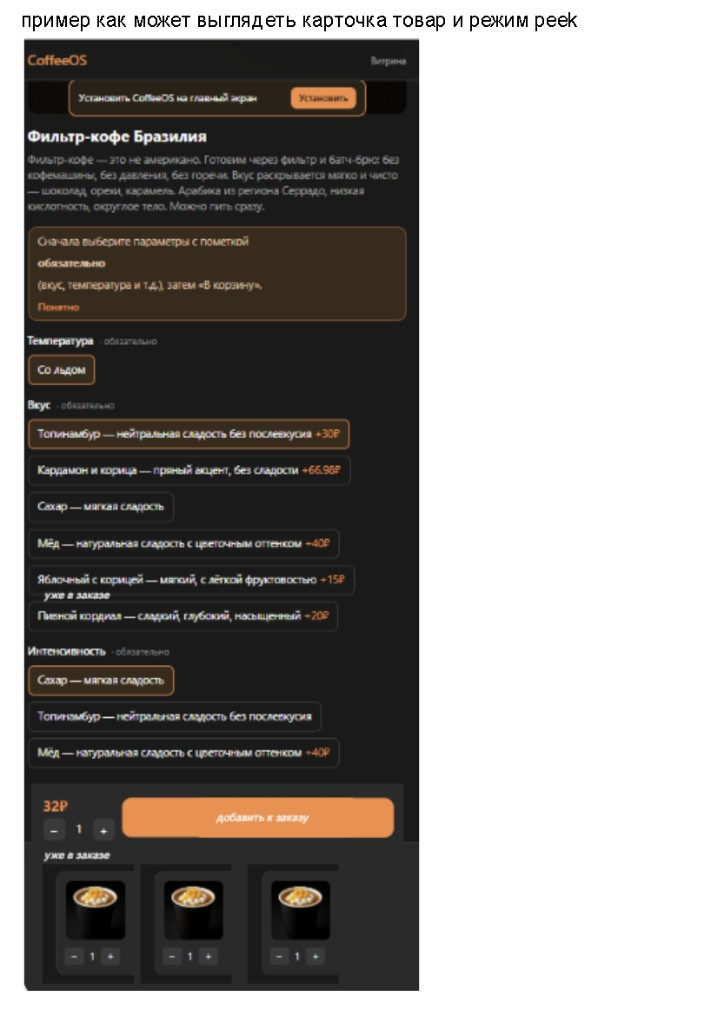
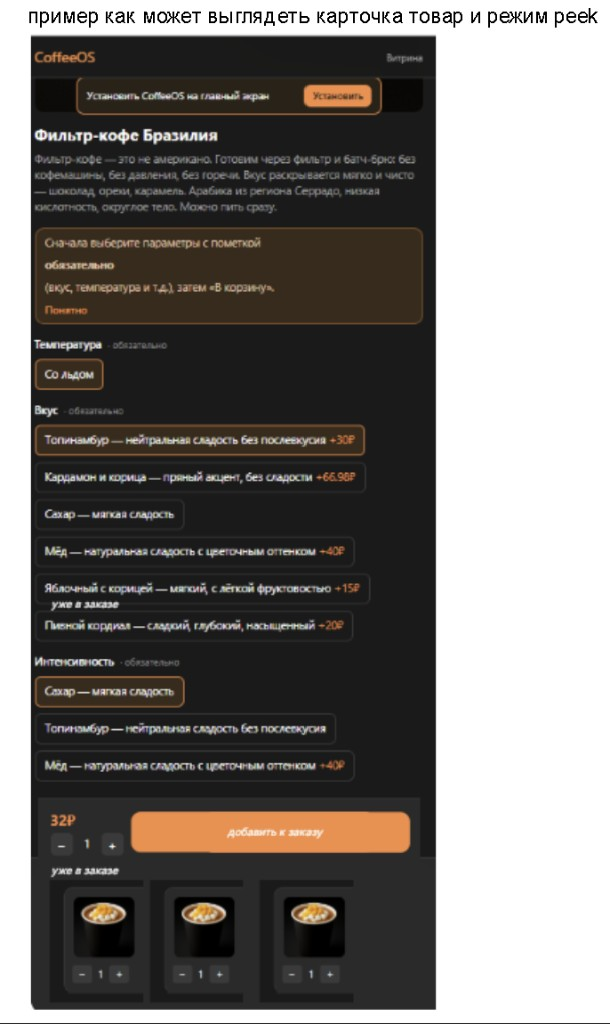
docs: intake #44 product card peek cart (reopen)
Reopen existing product_card_peek_cart TZ 1:1 with fresh screenshots;
CBR #44; rename truncated pee.md; no code changes.

diff --git a/docs/operations/milestones/veha_2/requirements/customer_tasks/Карточка товара отображение набранных позиций и функциональность в режиме peek.md b/docs/operations/milestones/veha_2/requirements/customer_tasks/Карточка товара отображение набранных позиций и функциональность в режиме peek.md
@@ -1,0 +1,159 @@
+# Карточка товара: отображение набранных позиций и функциональность в режиме peek
+
+Артефакты: docs/operations/milestones/veha_2/artifacts/product_card_peek_cart/
+
+**Статус:** reopen 2026-08-06 · PHASE 0 intake (ревизия ТЗ заказчика) · код волны 2026-07-10 есть, MCP/апрув не было · CBR #44
+
+---
+
+## Проблема
+Пользователи PWA CoffeeOS при переходе в карточку товара с уже набранными позициями не видят свои выбранные позиции. Это приводит к непониманию, что уже добавлено в заказ. В режиме peek утрачивается возможность горизонтального скролла и редактирования заказа (-1/+1).
+
+## Решение
+
+### Продуктовые требования
+- Пользователь видит свои набранные позиции в карточке товара
+- Сохраняется возможность редактирования количества в режиме peek
+- Сохраняется горизонтальный скролл в режиме peek
+- Есть кнопка с надписью “добавить к заказу” см скриншот
+
+### User Story
+Как пользователь CoffeeOS, я хочу видеть свои набранные позиции в карточке товара и иметь возможность их редактировать в режиме peek, чтобы контролировать состав заказа без дополнительных переходов.
+
+## Use Case
+1. Пользователь набирает позиции в корзине
+2. Переходит в карточку товара, где уже есть набранные позиции
+3. В карточке товара отображается индикатор наличия позиций в заказе
+4. При открытии режима peek пользователь видит свои позиции
+5. Пользователь может изменить количество (-1/+1) в режиме peek
+6. Пользователь может скроллить позиции горизонтально в режиме peek
+
+## Критерии приёмки
+
+### Сценарий 1: Отображение набранных позиций в карточке товара
+**Given:** Пользователь добавил товар "Фильтр-кофе Бразилия" в корзину (1 или более штук)  
+**When:** Пользователь переходит в карточку этого товара  
+**Then:** В карточке товара отображается индикатор количества добавленных позиций (например, "уже в заказе: 1")
+
+- [ ] **Тест-критерий:** В DOM присутствует элемент с количеством товара в корзине
+- [ ] **Тест-критерий:** При изменении количества в корзине индикатор обновляется реактивно
+
+### Сценарий 2: Режим peek — отображение набранных позиций
+**Given:** Пользователь добавил несколько позиций в корзину  
+**When:** Пользователь открывает корзину в режиме peek  
+**Then:** Отображаются все набранные позиции с возможностью просмотра
+
+- [ ] **Тест-критерий:** В режиме peek отображается список всех позиций из корзины
+- [ ] **Тест-критерий:** Каждая позиция содержит название, количество и цену
+
+### Сценарий 3: Режим peek — редактирование количества
+**Given:** Пользователь открыл корзину в режиме peek и видит набранные позиции  
+**When:** Пользователь нажимает кнопки -1 или +1 у позиции  
+**Then:** Количество позиции изменяется, общая сумма пересчитывается
+
+- [ ] **Тест-критерий:** Кнопки -1 и +1 активны и обрабатывают клики
+- [ ] **Тест-критерий:** При нажатии +1 количество увеличивается на 1
+- [ ] **Тест-критерий:** При нажатии -1 количество уменьшается на 1
+- [ ] **Тест-критерий:** Общая сумма корзины пересчитывается после изменения
+
+### Сценарий 4: Режим peek — горизонтальный скролл
+**Given:** В корзине в режиме peek несколько позиций  
+**When:** Пользователь делает свайп влево/вправо  
+**Then:** Список позиций скроллится горизонтально
+
+- [ ] **Тест-критерий:** Контейнер с позициями имеет горизонтальный скролл
+- [ ] **Тест-критерий:** Свайп жесты обрабатываются корректно
+- [ ] **Тест-критерий:** Все позиции доступны для просмотра при скролле
+
+## Экстремальные сценарии
+
+### Сценарий 5: Пустая корзина в режиме peek
+**Given:** Корзина пуста  
+**When:** Пользователь открывает режим peek  
+**Then:** Отображается сообщение о пустой корзине или режим peek не открывается
+
+- [ ] **Тест-критерий:** Обработчик корректно реагирует на пустую корзину
+
+### Сценарий 6: Ошибка при изменении количества
+**Given:** Пользователь в режиме peek нажимает +1  
+**When:** API возвращает ошибку  
+**Then:** Количество откатывается, показывается сообщение об ошибке
+
+- [ ] **Тест-критерий:** При ошибке API состояние откатывается к предыдущему
+- [ ] **Тест-критерий:** Пользователь видит сообщение об ошибке
+
+### Сценарий 7: Товар закончился
+**Given:** Товар есть в корзине  
+**When:** Товар закончился на складе  
+**Then:** В карточке товара и в peek режиме показывается индикатор "нет в наличии"
+
+- [ ] **Тест-критерий:** Отображается индикатор отсутствия товара
+- [ ] **Тест-критерий:** Кнопки редактирования заблокированы
+
+## 🛑 ЖЕСТКИЙ ПРОТОКОЛ ТЕСТИРОВАНИЯ
+
+«Правила против халтуры в юнит-тестах:
+1. ЗАПРЕЩЕНЫ тавтологии (зеленые по умолчанию типа expect(true).toBe(true)).
+2. ЗАПРЕЩЕНО мокать логику компонента. Только внешние API.
+3. Тест ОБЯЗАН падать на старом коде (Красная зона).
+4. Тест должен проверять изменения стейта/DOM строго по Then».
+
+## Жесткие ограничения
+
+**Запрещено:**
+- Менять логику работы основной корзины
+- Изменять существующий API работы с корзиной
+- Ломать существующие сценарии добавления/удаления товаров
+- Убирать существующую функциональность
+
+**Обязательно:**
+- Сохранить обратную совместимость
+- Протестировать на мобильных устройствах
+- Проверить работу touch-событий для скролла
+
+концепт карточка товара + режим peek 
+
+пример как может выглядеть карточка товар и режим peek
+
+---
+
+## Заметки агента
+
+### Волна 2026-07-10 (закрыта в коде, не принята заказчиком)
+
+| Сценарий | Было в коде | Тесты |
+|----------|-------------|-------|
+| S1 — индикатор «уже в заказе» | `Product.svelte` · `shop-product-in-order` · `уже в заказе: N` | `product_card_s1_in_order_indicator_test.rb` |
+| S2 — peek-список | `ProductCartPeek.svelte` | `product_card_s2_peek_list_test.rb` |
+| S3 — ±1 | `bumpCartLine` / `removeCartLine` | `product_card_s3_peek_qty_edit_test.rb` |
+| S4 — horizontal scroll | `shop-product-peek-scroll` · `touch-action: pan-x` | extremes |
+| S5–S7 | empty / API error / OOS | `product_card_s4_s7_peek_extremes_test.rb` |
+
+**Не сделано тогда:** MCP / Fly визуальная приёмка · запись в CBR · апрув заказчика «ок».
+
+**Файл ТЗ:** переименован с усечённого `…режиме pee.md` → полное имя.
+
+### Reopen 2026-08-06 (этот intake)
+
+Заказчик снова прислал **тот же** текст проблемы + скрины. Критерии приёмки снова `[ ]` (как в исходном ТЗ).
+
+**Скрины:** пересохранены в `artifacts/product_card_peek_cart/screenshots/` (хеши отличаются от 2026-07-10). Старые → `screenshots/_archive_2026-07-10/`.
+
+**Расхождения текст ↔ макет ↔ код (для SPEC):**
+
+| Что | Текст ТЗ | Макет (mockup) | Код сейчас |
+|-----|----------|----------------|------------|
+| Индикатор «уже в заказе» | на карточке: `уже в заказе: 1` | + подпись «уже в заказе» **под опцией модификатора** («Яблочный с корицей») | только уровень товара (`inOrderQty`), **не** per-modifier |
+| Peek | список позиций, ±1, horizontal scroll | горизонтальные карточки: thumb + ± | `ProductCartPeek` ≈ макет |
+| CTA | «добавить к заказу» | есть | есть |
+| Шапка / install banner | не в тексте | CoffeeOS + «Витрина» + install | другой header (back + title) — вне scope, если не уточнят |
+| Live | заказчик «не видит позиции / нет scroll / нет ±» | — | возможная регрессия после #35/#42 (status sheet / peek height) поверх `ProductCartPeek` |
+
+### Что переделать (после go → SPEC → RED → GREEN)
+
+1. **SPEC:** сверить live Fly `#/product/…` с корзиной — виден ли `ProductCartPeek`, не перекрывает ли OrderStatusSheet / bottom bar, работает ли pan-x.
+2. **Уточнить scope индикатора:** только `уже в заказе: N` (текст) **или** ещё метка на модификаторах как на макете.
+3. **RED:** тесты, которые реально красные на текущем баге (не зелёные «по памяти» волны июля); при регрессии — починить, при gap макета — новые тест-критерии.
+4. **GREEN:** минимальный fix без ломки `cartSheetStore` / основной `CartSheet`.
+5. **Регрессия:** `bin/rails test test/integration/shop/` (зона shop) + MCP на Fly.
+6. **Не трогать:** API корзины, сценарии add/remove каталога (жёсткие ограничения ТЗ).

diff --git a/docs/operations/milestones/veha_2/requirements/CUSTOMER_BUSINESS_REQUIREMENTS.md b/docs/operations/milestones/veha_2/requirements/CUSTOMER_BUSINESS_REQUIREMENTS.md
@@ -129,6 +129,7 @@
 | Order action buttons status panel | **Витрина / PWA** — динамический блок CTA справа от progress bar (Отмена / Чат / Чаевые / Push|Wallet) по матрице статусов + WS | [ТЗ](customer_tasks/Динамический%20блок%20действий%20Action%20Buttons%20в%20статусной%20панели%20заказа.md) · [`artifacts/order_action_buttons_status_panel/`](../artifacts/order_action_buttons_status_panel/) | **закрыта `[x]`** апрув «ок» 2026-08-05 · Fly **v431** MCP chat+push+cancel PASS |
 | Stuck orders sheet blocks payment | **Витрина + табло + УК** — зависшие заказы в шторке блокируют оплату; нет на табло баристы; разъезд payment statuses | [ТЗ](customer_tasks/Зависшие%20заказы%20в%20статусной%20шторке%20PWA%20блокируют%20оплату.md) · [`artifacts/stuck_orders_status_sheet_blocks_payment/`](../artifacts/stuck_orders_status_sheet_blocks_payment/) | **Fly v433 MCP PASS** 2026-08-05 · апрув `[ ]` |
 | Repeat hidden by stale active orders | **Витрина / PWA** — после #42 нет «повторить» / кнопок на карточках / истории частот (June accepted → has_active_order) | [ТЗ](customer_tasks/После%2042%20пропали%20повторы%20в%20шторке%20и%20история%20покупок.md) · [`artifacts/repeat_hidden_by_stale_active_orders/`](../artifacts/repeat_hidden_by_stale_active_orders/) | **Fly v434 MCP PASS** 2026-08-06 · апрув `[ ]` |
+| Product card peek cart | **Витрина / PWA** — на карточке товара видеть набранные позиции; peek: ±1 + horizontal scroll; CTA «добавить к заказу» | [ТЗ](customer_tasks/Карточка%20товара%20отображение%20набранных%20позиций%20и%20функциональность%20в%20режиме%20peek.md) · [`artifacts/product_card_peek_cart/`](../artifacts/product_card_peek_cart/) | **reopen intake `[x]`** 2026-08-06 · код волны 2026-07-10 · SPEC/MCP `[ ]` |
 
 > **B1.8 (не забыть):** сейчас письма с **подтверждённого личного sender** в Brevo. Когда будет **свой домен** — завести **кофейную почту** (напр. `noreply@бренд.ru`), аутентифицировать домен в Brevo, обновить `MAIL_FROM` + secrets. Код OTP/ActionMailer менять не нужно.
 
@@ -182,6 +183,7 @@
 | 41 | **Order action buttons status panel** | Динамический блок CTA справа от progress bar: матрица Отмена/Чат/Чаевые/Push|Wallet; адаптеры чата и нетмонет; WS-реактивность; cancel flow | **закрыта `[x]`** апрув «ок» 2026-08-05 · Fly **v429** · MCP chat+push PASS | [Динамический блок действий Action Buttons…](customer_tasks/Динамический%20блок%20действий%20Action%20Buttons%20в%20статусной%20панели%20заказа.md) · [artifacts](../artifacts/order_action_buttons_status_panel/) · [mcp/fly_v429…](../artifacts/order_action_buttons_status_panel/mcp/fly_v429_2026-08-05/) |
 | 42 | **Stuck orders sheet blocks payment** | Зависшие accepted в шторке #35 перекрывают оплату; нет на табло; payment processing vs succeeded; фильтр shift_manager пуст | **Fly v433 MCP PASS** 2026-08-05 · апрув `[ ]` | [Зависшие заказы…](customer_tasks/Зависшие%20заказы%20в%20статусной%20шторке%20PWA%20блокируют%20оплату.md) · [artifacts](../artifacts/stuck_orders_status_sheet_blocks_payment/) |
 | 43 | **Repeat hidden by stale active orders** | После #42: нет повторов в шторке, нет кнопки на карточке повтора, «история покупок» не грузится | **Fly v434 MCP PASS** 2026-08-06 · апрув `[ ]` | [После 42 пропали повторы…](customer_tasks/После%2042%20пропали%20повторы%20в%20шторке%20и%20история%20покупок.md) · [artifacts](../artifacts/repeat_hidden_by_stale_active_orders/) |
+| 44 | **Product card peek cart** | Карточка товара: индикатор «уже в заказе»; peek ±1 + horizontal scroll; CTA «добавить к заказу» | **reopen intake `[x]`** 2026-08-06 · код 2026-07-10 · SPEC/RED/GREEN/MCP `[ ]` | [Карточка товара отображение…](customer_tasks/Карточка%20товара%20отображение%20набранных%20позиций%20и%20функциональность%20в%20режиме%20peek.md) · [artifacts](../artifacts/product_card_peek_cart/) |
 
 ---
 

diff --git a/docs/operations/session/HANDOFF.md b/docs/operations/session/HANDOFF.md
@@ -1,8 +1,22 @@
 # HANDOFF — Веха 2 (Веха 1 **закрыта** 2026-06-19)
 
-**Дата:** 2026-08-06 (**#43** Fly v434 MCP PASS · **#42** v433)  
+**Дата:** 2026-08-06 (**#44** product card peek reopen intake · **#43** Fly v434)  
 **Ветка:** `develop`  
 **Прод:** https://coffeeos.fly.dev (**v434**)
+
+### Product card peek cart (#44) — reopen intake 2026-08-06
+
+| Что | Статус |
+|-----|--------|
+| PHASE 0 intake (ТЗ 1:1 + скрины) | **`[x]`** |
+| PHASE 1 SPEC | **`[ ]`** |
+| RED/GREEN / MCP | **`[ ]`** |
+
+**ТЗ:** [`Карточка товара отображение набранных позиций…`](../milestones/veha_2/requirements/customer_tasks/Карточка%20товара%20отображение%20набранных%20позиций%20и%20функциональность%20в%20режиме%20peek.md)  
+**Скрины:** [`product_card_peek_cart/screenshots/`](../milestones/veha_2/artifacts/product_card_peek_cart/screenshots/) (обновлены 2026-08-06)  
+**Суть:** на `#/product` не видны набранные позиции; peek без scroll / ±1; CTA «добавить к заказу».  
+**Контекст:** волна 2026-07-10 (`ProductCartPeek` + индикатор) в коде есть; MCP/апрув не было; заказчик reopen.  
+**Дальше:** go → SPEC (сверка live + gap макета per-modifier) → RED/GREEN.
 
 ### Repeat hidden by stale active orders (#43) — 2026-08-06
 

diff --git a/docs/operations/session/SESSION_STATE.md b/docs/operations/session/SESSION_STATE.md
@@ -2,13 +2,21 @@
 
 ## Текущее состояние
 
-**Дата:** 2026-08-06 (#43 Fly v434 MCP PASS)
+**Дата:** 2026-08-06 (#44 Product card peek cart — PHASE 0 reopen intake)
 
 | Сейчас | Дальше |
 |--------|--------|
-| **#43** Fly **v434** MCP PASS · ISSUES resolved | апрув заказчика «ок» |
-| **#42** Fly **v433** | апрув |
+| **#44** Product card peek cart · PHASE 0 intake `[x]` | go → PHASE 1 SPEC |
+| **#43** Fly **v434** MCP PASS | апрув заказчика «ок» |
 | Live Fly | **v434** |
+
+### Сессия 2026-08-06 (PHASE 0 · #44 product card peek cart reopen)
+
+- Заказчик снова: не видит набранные позиции на карточке; peek без scroll / ±1
+- **Не новая задача** — продолжение `product_card_peek_cart` (волна 2026-07-10 код есть, MCP/апрув не было, в CBR не было)
+- ТЗ 1:1 перезаписан; файл переименован с `…pee.md`; скрины заменены (старые → `_archive_2026-07-10/`)
+- CBR #44 · статус reopen intake
+- Код/todo не трогали
 
 ### Сессия 2026-08-06 (push/deploy/MCP · #43)
 

diff --git a/docs/operations/milestones/veha_2/artifacts/product_card_peek_cart/README.md b/docs/operations/milestones/veha_2/artifacts/product_card_peek_cart/README.md
@@ -1,0 +1,15 @@
+# product_card_peek_cart
+
+Артефакты задачи: **Карточка товара — набранные позиции + peek**.
+
+**ТЗ:** [`customer_tasks/Карточка товара отображение набранных позиций и функциональность в режиме peek.md`](../../requirements/customer_tasks/Карточка%20товара%20отображение%20набранных%20позиций%20и%20функциональность%20в%20режиме%20peek.md)
+
+## screenshots/
+
+| Файл | Что |
+|------|-----|
+| `concept_layout_wireframe.png` | Wireframe: изображение / модификаторы / корзина-peek |
+| `product_card_peek_mockup.png` | Макет: карточка «Фильтр-кофе Бразилия» + peek «уже в заказе» |
+| `_archive_2026-07-10/` | Скрины первой волны (до re-intake 2026-08-06) |
+
+Обновлено: **2026-08-06** (reopen intake).

diff --git a/docs/operations/journal/CHANGELOG.md b/docs/operations/journal/CHANGELOG.md
@@ -1,5 +1,11 @@
 # CHANGELOG
 
+## 2026-08-06 — docs: intake #44 product card peek cart (reopen)
+- Продолжение задачи `product_card_peek_cart` (не новая): ТЗ 1:1, скрины заменены, архив `_archive_2026-07-10/`
+- Файл ТЗ переименован с усечённого `…pee.md`
+- CBR #44 · SESSION_STATE / HANDOFF
+- Код не трогали — ждём go → SPEC
+
 ## 2026-08-06 — deploy: #43 has_active_order TTL · Fly v434 MCP PASS
 - `has_active_order?` окно 24h (как #42) — June accepted больше не гасят «повторить»
 - Push `c9c5aacd` · Fly **v434** · `deployment-01KZAVCVTD37NBM7CK9M7MFMFK`
